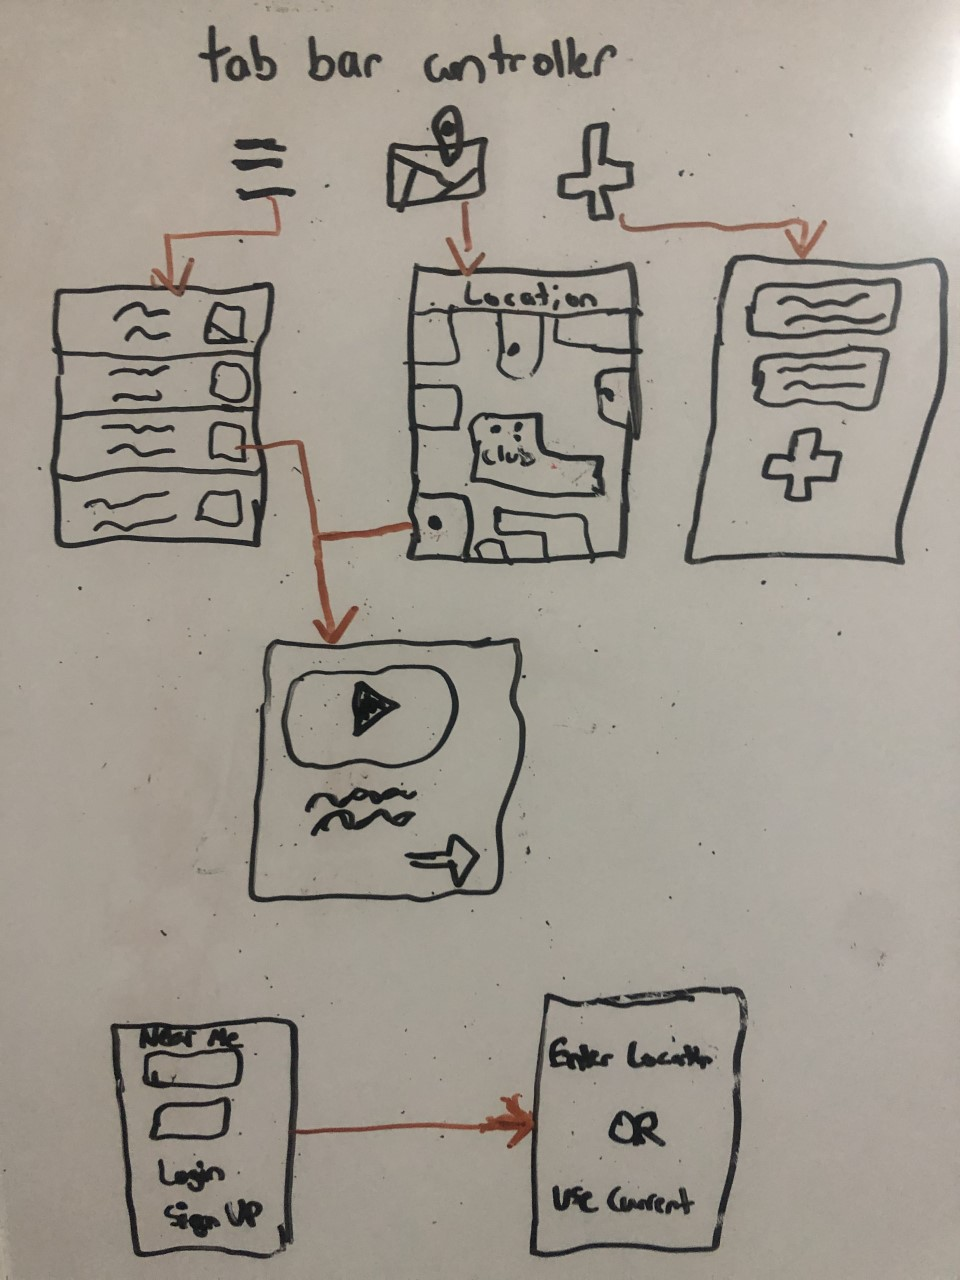
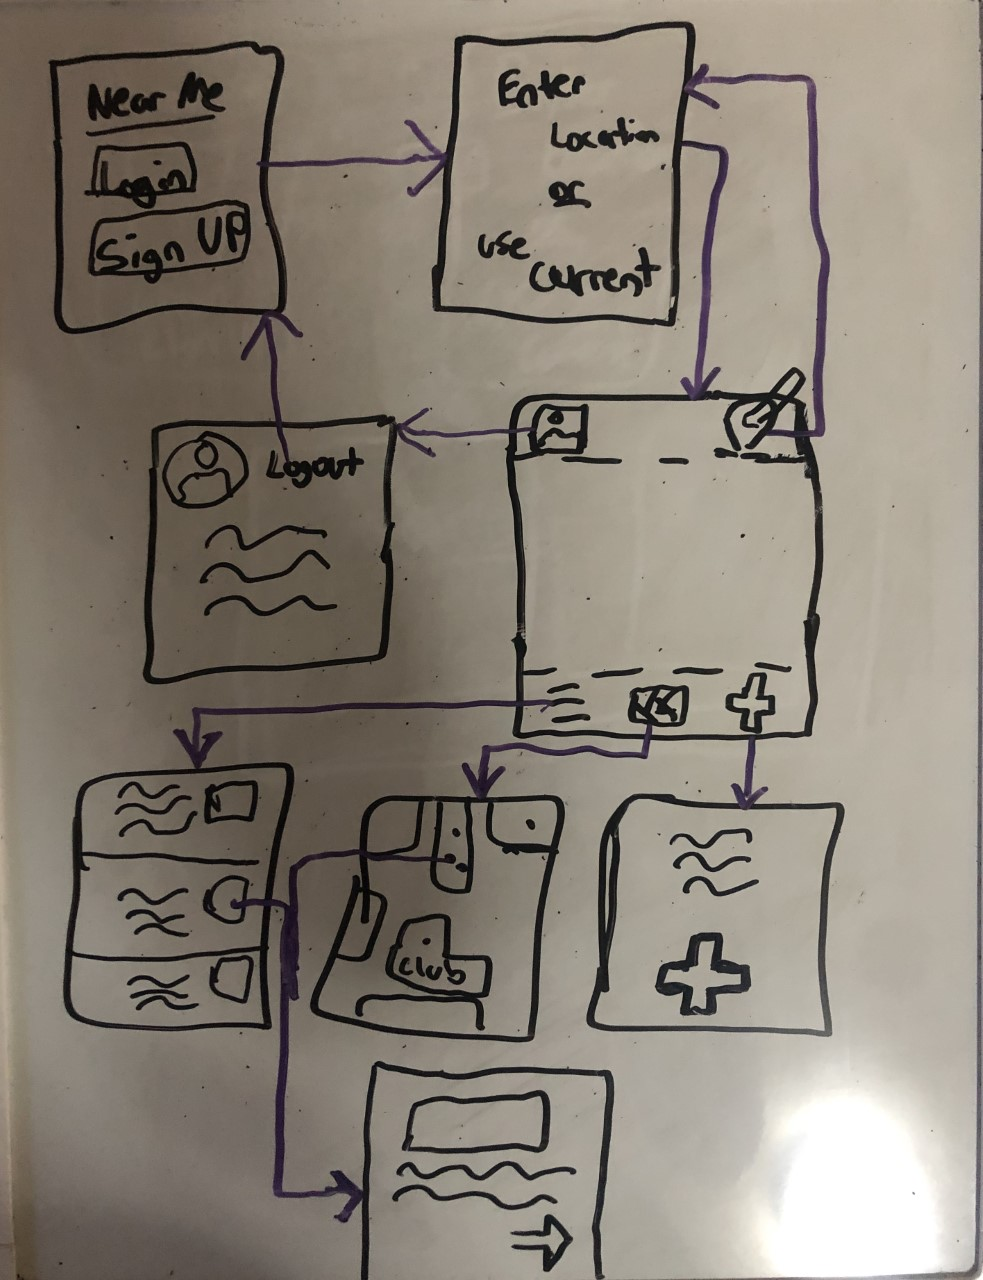
updated README and navigation

diff --git a/app/src/main/java/com/example/nearme/LoginActivity.java b/app/src/main/java/com/example/nearme/LoginActivity.java
@@ -40,7 +40,7 @@ public class LoginActivity extends AppCompatActivity {
         etPassword = findViewById(R.id.etPassword);
 
         //if already logged in
-//        if(ParseUser.getCurrentUser() != null) goMainActivity();
+        if(ParseUser.getCurrentUser() != null) goMainActivity();
 
         btnLogin.setOnClickListener(new View.OnClickListener() {
             @Override

diff --git a/README.md b/README.md
@@ -25,39 +25,45 @@ NearMe allows users to view short descriptions of events near them along with sh
 
 **Required Must-have Stories**
 
-* User can create a new account
-* User can logins
-* User can choose btwn input location, or use curr location
-* User can post short info for local event w/ short desc, location, short vid,
-* User can view map of local and recent (x HOURS) posts
-* User can view list of local and recent posts
+- [x] User can create a new account
+- [x] User can logins
+- [x] User can use current location
+- [ ] User can view map of local and recent (x HOURS) posts
+- [ ] User can view list of local and recent posts
+- [ ] User can post short info for local event w/ short desc, location, short vid
+- [ ] User can set input location
+
 
 
 **Optional Nice-to-have Stories**
 
-* Group together posts in same area for nicer map UI
-*  Notification if area near seems active
-*  User can change recent hour time frame
-* User can only post vid for post after X time
-* User can remove post
-* User can follow/unfollow AND view feed based off followers' post
-* User profiles more complex, profile pics, short desc
+- [ ] Video Support
+- [ ] Profile Configuration(Pics,Desc) / User Can Remove Post
+- [ ] Improve Map UI/ Group Posts Together
+- [ ] User can follow/unfollow and view profiles
+- [ ] User can like posts
+- [ ]  Notifications for Active Area
+- [ ] User can customize sorting of posts
+
 
 
 ### 2. Screen Archetypes
 
 * Login Screen/ Registration Screen
    * User can login/create new acct
-* Where you at Screen
+* Choose Location
     * User can choose btwn input location, or use curr location
+* Profile
+    * User can view and edit profile
 * List View
-    * User can view list of local and recent posts
+    * User can view list of posts
 * Map View
-   * User can view map of local and recent posts
+   * User can view map of posts
+* Compose Post
+    * User can post short info for local event w/ short desc, location, and media
 * More Details
    * User can view video and description
-* Compose Post
-    * User can post short info for local event w/ short desc, location, short vid
+
 
 ### 3. Navigation
 
@@ -66,29 +72,30 @@ NearMe allows users to view short descriptions of events near them along with sh
 *  Map View
 *  List View
 *  Compose Post
+*  Profile
+*  Choose Location
 
 **Flow Navigation** (Screen to Screen)
 
 * Login Screen/Registration
    => Where You At
-* Where You At
-  => Home Screen
+* Profile Screen
+   => Main Screen w/ Tab Navigation
+   => Login Screen/Registraton
+* Location Screen
+  => Main Screen w/ Tab Navigation
 * Compose Post
-  => Home Screen
+  => Main Screen w/ Tab Navigation
 * Map/List View
   => More Details
 * More Details
-  => Can go to Home
+  => Main Screen w/ Tab Navigation
 
 ## Wireframes
 <img src="nearMeWireframe.jpg" width=600>
 
-### [BONUS] Digital Wireframes & Mockups
-
-### [BONUS] Interactive Prototype
 
 ## Schema 
-[This section will be completed in Unit 9]
 ### Models
 #### Post
 
@@ -98,8 +105,7 @@ NearMe allows users to view short descriptions of events near them along with sh
    | author        | Pointer to User| post creator |
    | media         | File     | video that user posts |
    | desc          | String   | description user made |
-   | latitude      | Number   |where user made post for |
-   | longitude     | Number   |where user made post for |
+   | location      | GeoPoint   |where user made post for |
    | createdAt     | DateTime | date when post is created (default field) |
    
  #### User
@@ -109,8 +115,7 @@ NearMe allows users to view short descriptions of events near them along with sh
    | objectId      | String   | unique id for the user post (default field) |
    | username      | String   | username |
    | password      | String   | password |
-   | last_latitude | Number   | last updated latitude |
-   | last_longitude| Number   | last updated longitude |
+   | last_location| GeoPoint   | last updated latitude |
    | createdAt     | DateTime | date when post is created (default field) |
 
 
@@ -130,4 +135,3 @@ NearMe allows users to view short descriptions of events near them along with sh
     - (Read/GET) Query logged in user object
     - (Delete) Delete previous posts
 
-- [OPTIONAL: List endpoints if using existing API such as Yelp]
